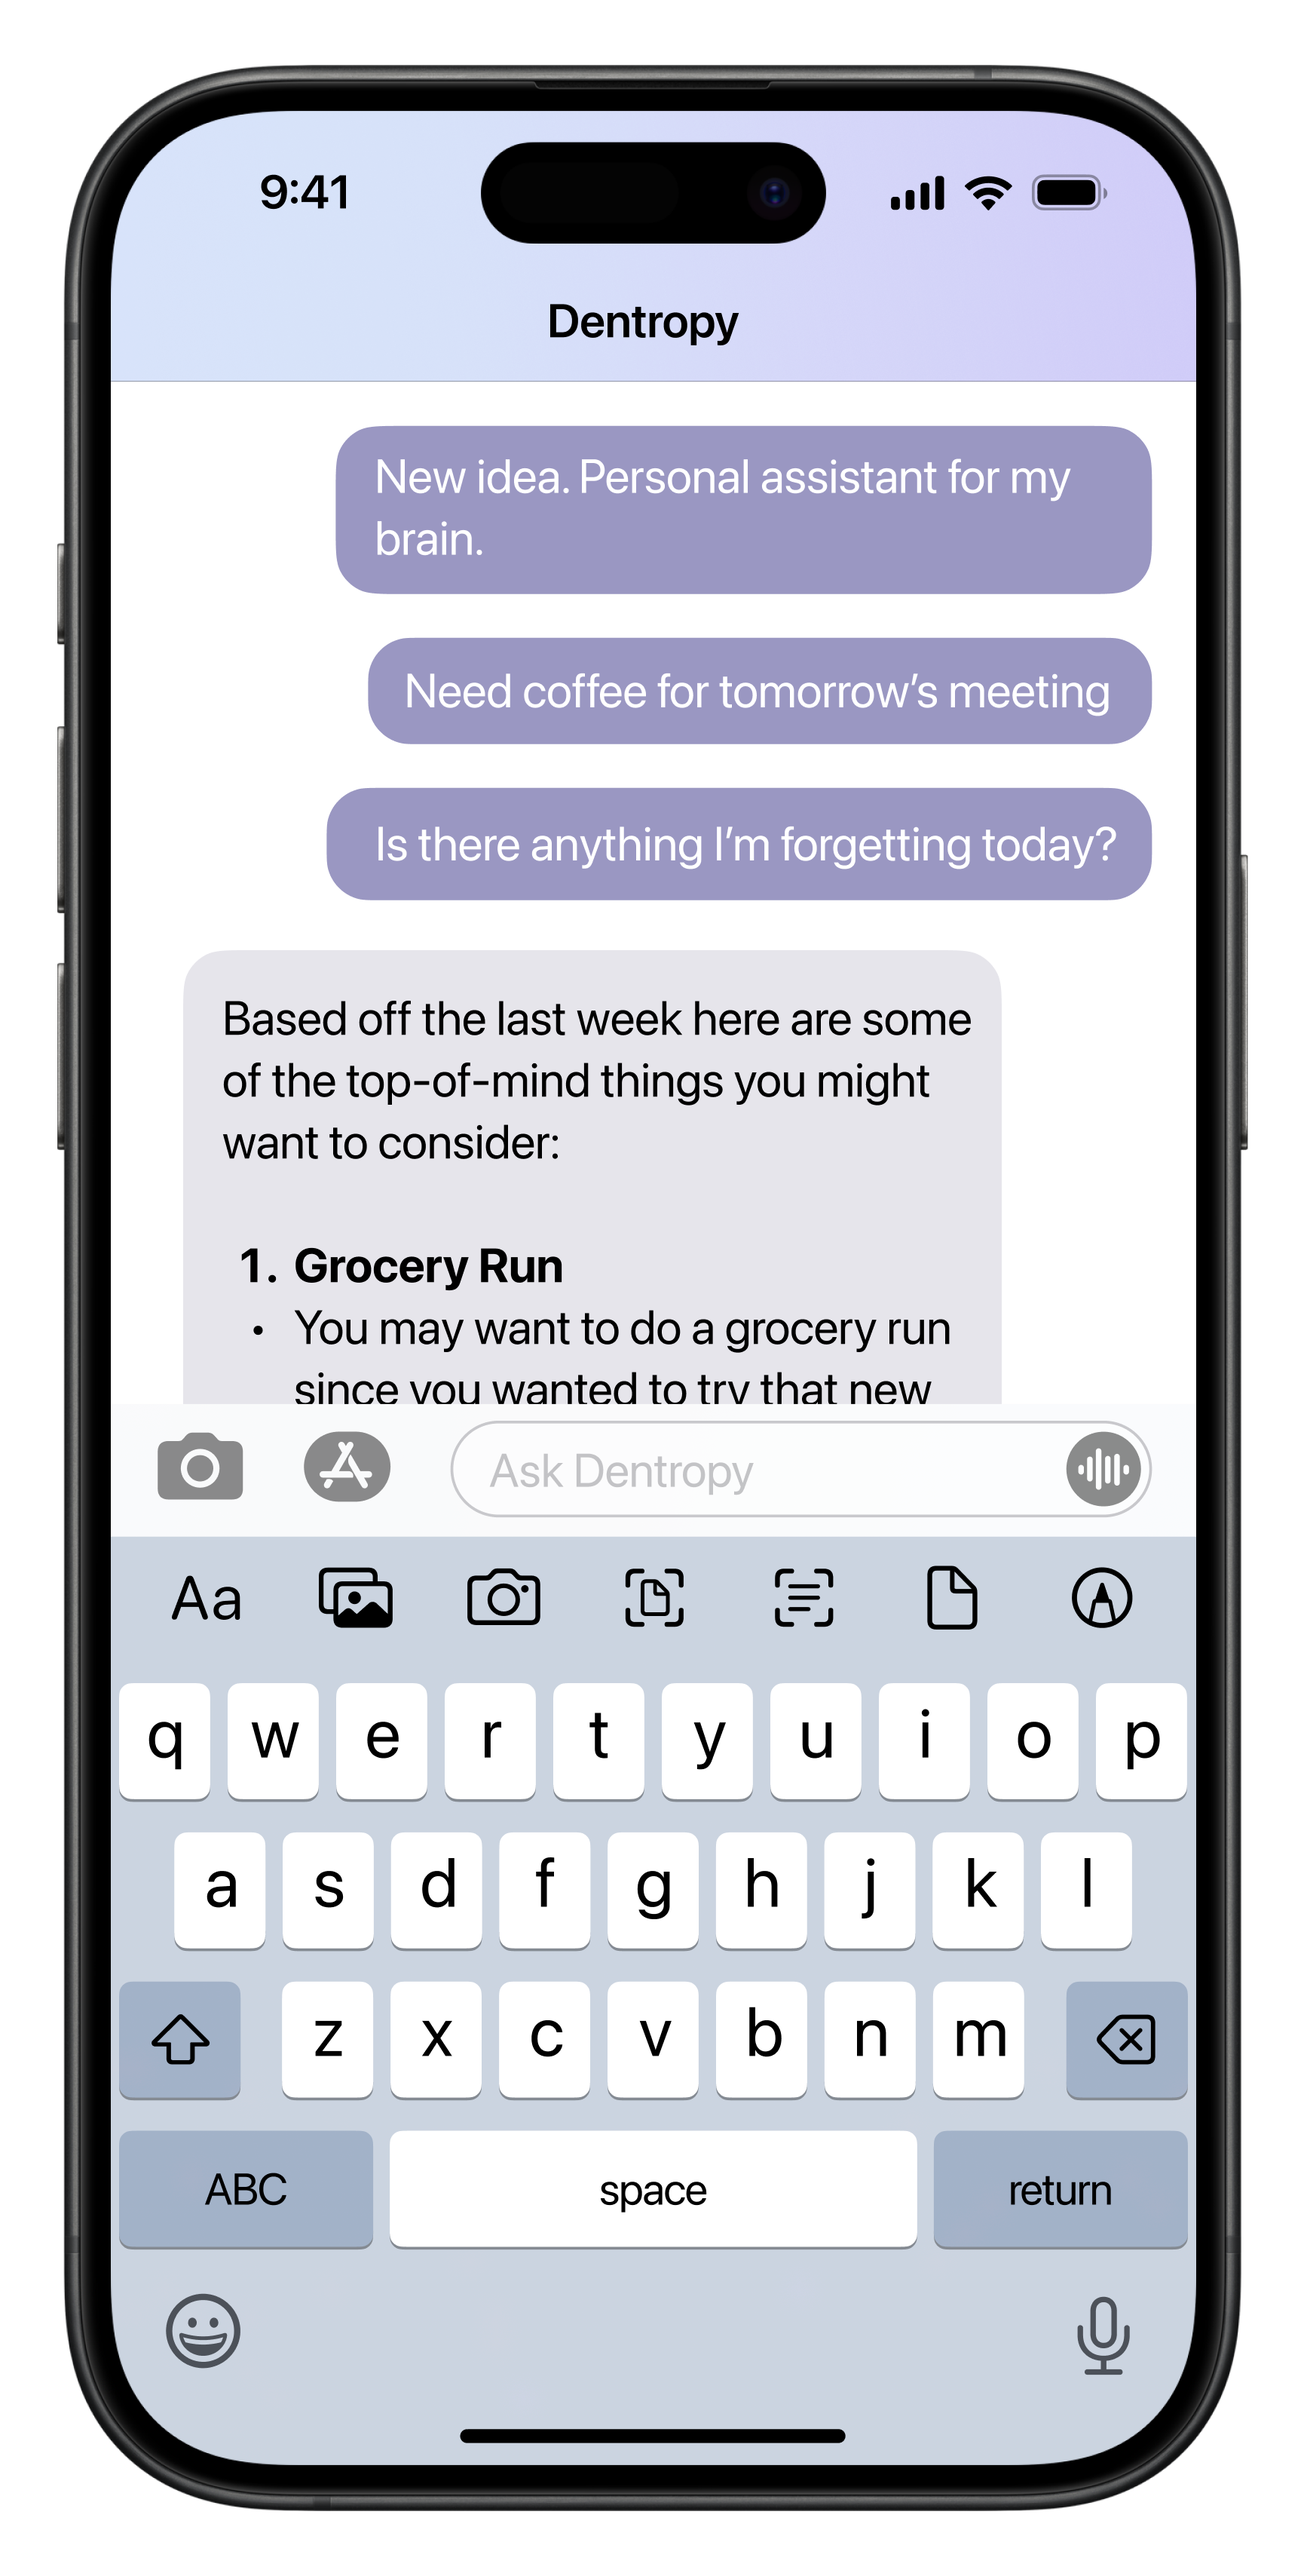
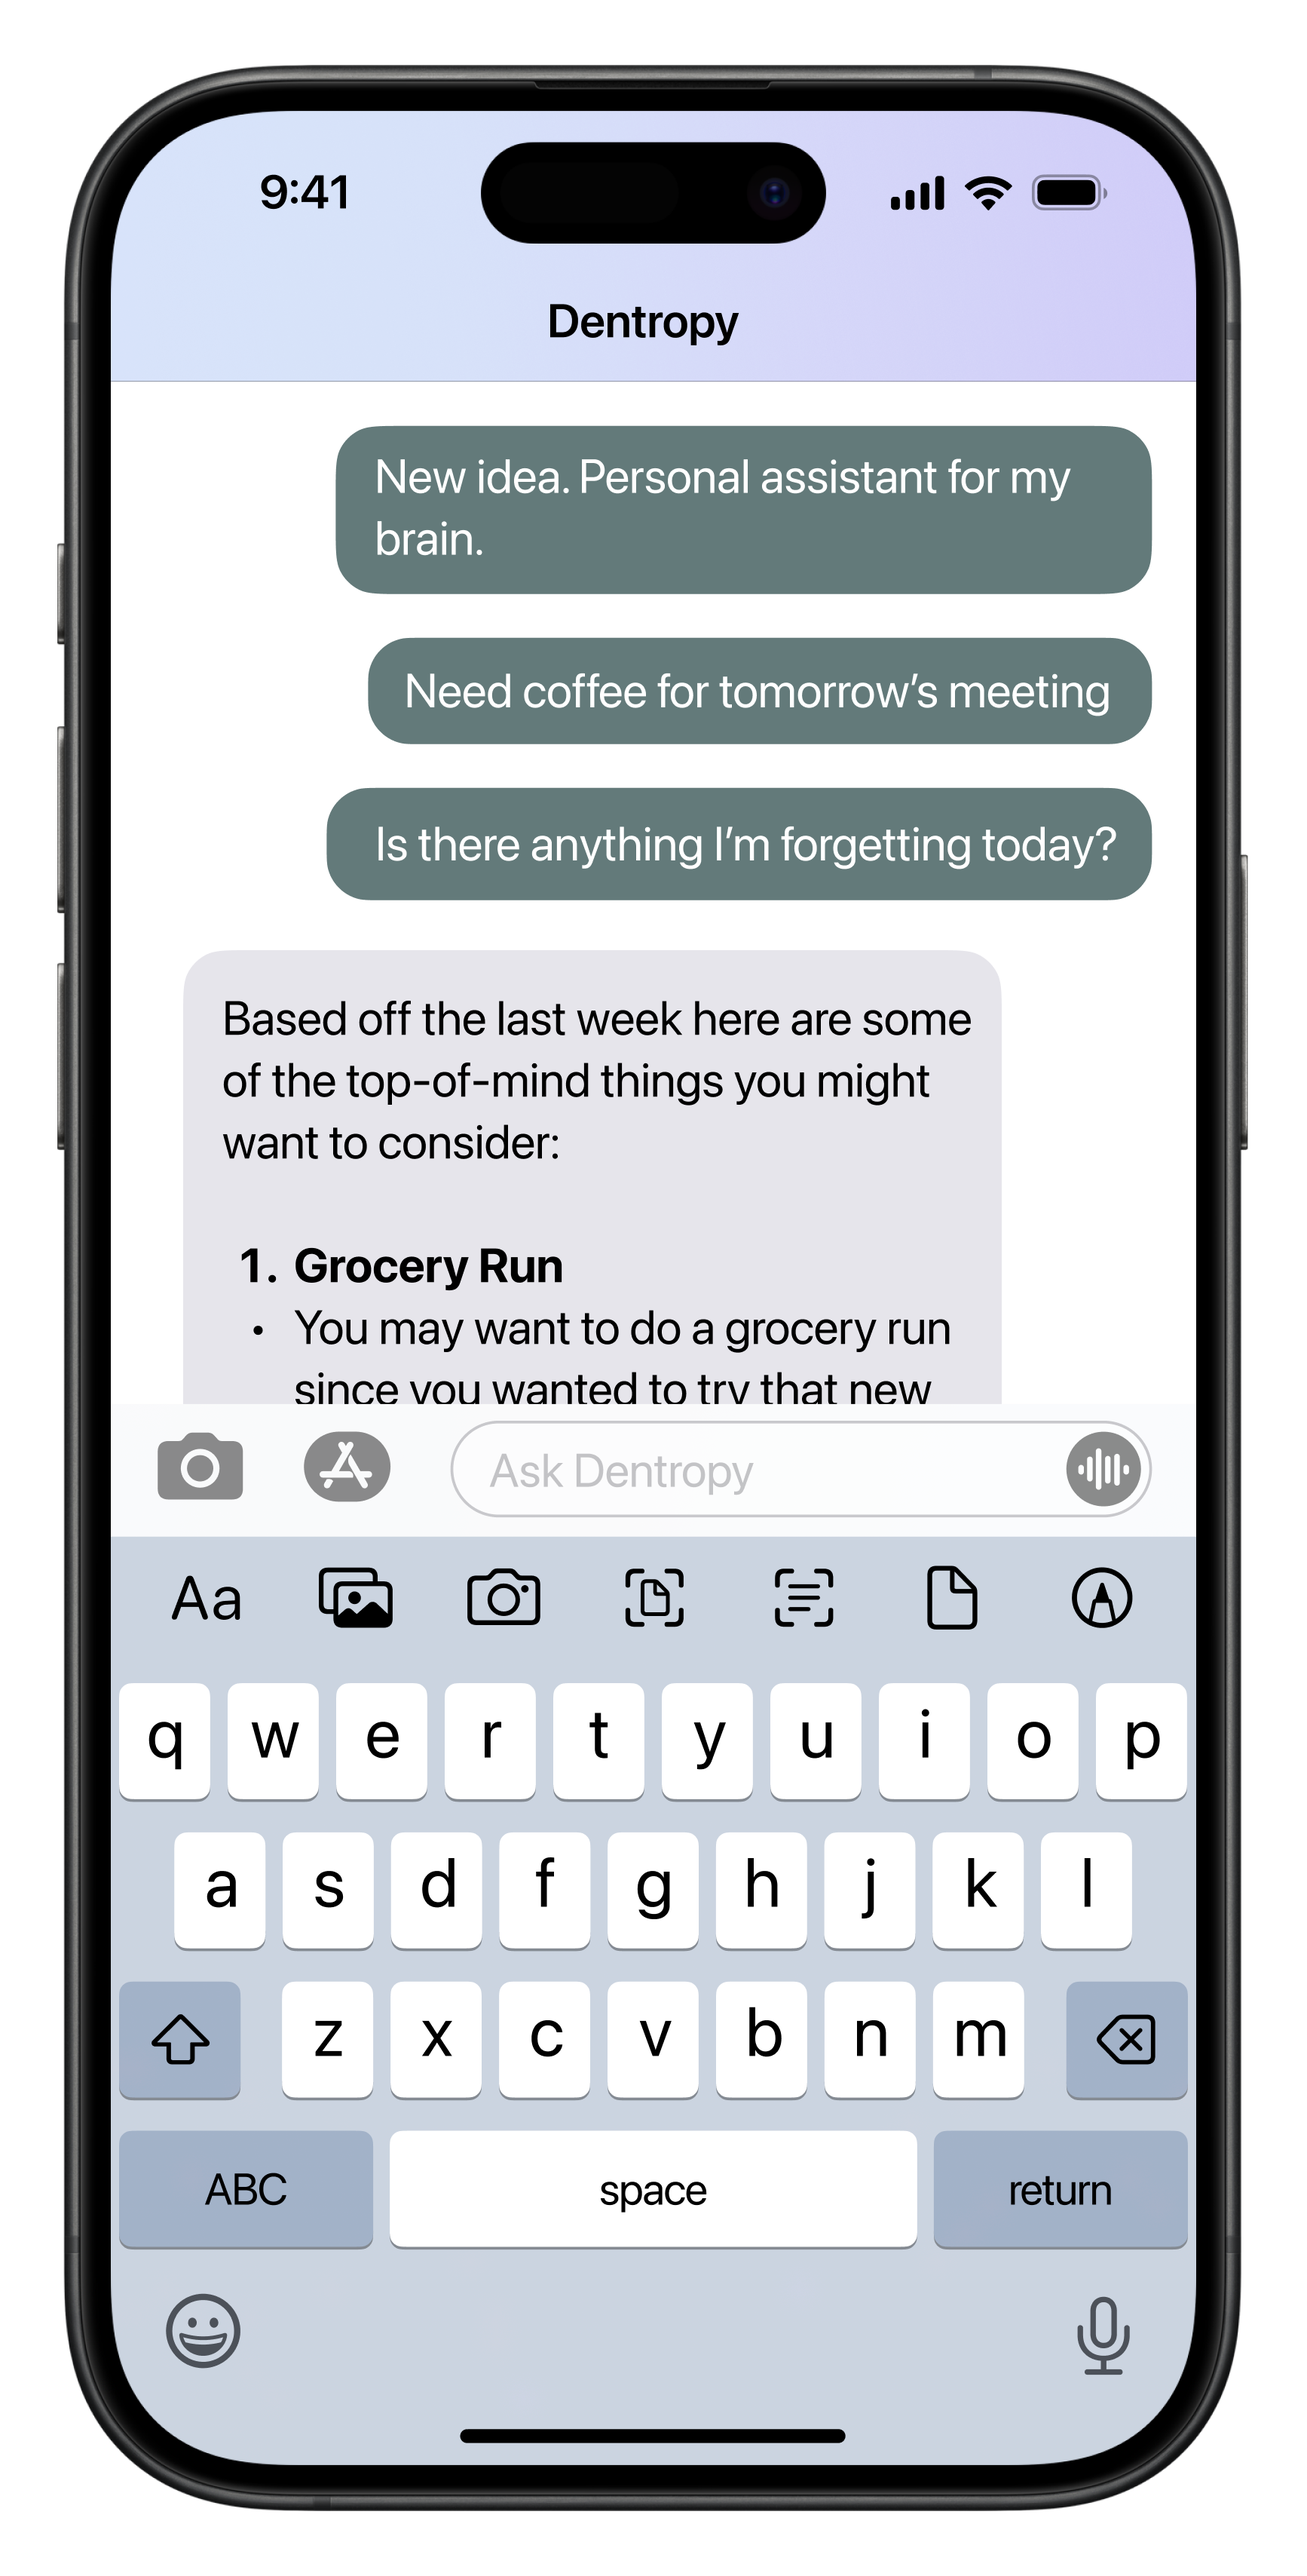
Need to revise colors

Changed region(s): [[0.2491, 0.1552, 0.9031, 0.3724]]

diff --git a/index.html b/index.html
@@ -263,7 +263,7 @@ value_props:
       - "Make lists, as things come to mind (e.g. groceries)"
 
 key_features:
-  enable: true
+  enable: false
   title: "Key Features"
   features:
     - title: "Index your notes in a graph database"
@@ -378,7 +378,7 @@ key_features:
 
   .hero-content .btn,
   .simple-nav-btn {
-    background-color: #746aff;
+    background-color: #637A7A;
     color: #ffffff;
     padding: 0.5rem 1rem;
     border-radius: 4px;
@@ -390,14 +390,14 @@ key_features:
 
   .hero-content .btn:hover,
   .simple-nav-btn:hover {
-    background-color: #5d54cc;
+    background-color: #556969;
     /* Slightly darker shade for hover effect */
     color: #ffffff;
     text-decoration: none;
   }
 
   .simple-nav-btn {
-    background-color: #746aff;
+    background-color: #637A7A;
     color: #ffffff;
     padding: 0.5rem 1rem;
     border-radius: 4px;
@@ -695,7 +695,7 @@ key_features:
 
   #waitlist-signup .simple-nav-btn {
     display: inline-block;
-    background-color: #746aff;
+    background-color: #637A7A;
     color: #ffffff;
     padding: 0.5rem 1.5rem;
     border-radius: 4px;
@@ -706,7 +706,7 @@ key_features:
   }
 
   #waitlist-signup .simple-nav-btn:hover {
-    background-color: #5d54cc;
+    background-color: #556969;
     /* Slightly darker shade for hover effect */
     color: #ffffff;
     text-decoration: none;
@@ -741,7 +741,7 @@ key_features:
   .bubble-bg {
     width: 100px;
     height: 30px;
-    background: rgba(116, 106, 255, 0.15);
+    background: rgba(99, 122, 122, 0.15);
     /* Changed to match button color */
     opacity: 0.4;
   }
@@ -750,7 +750,7 @@ key_features:
     font-size: 0.9rem;
     color: #ffffff;
     max-width: 300px;
-    background: rgba(116, 106, 255, 0.3);
+    background: rgba(99, 122, 122, 0.3);
     /* Changed to match button color with higher opacity */
   }
 
@@ -1191,10 +1191,11 @@ key_features:
 
   .value-prop-card:hover {
     transform: translateY(-5px);
+    box-shadow: 0 5px 15px rgba(99, 122, 122, 0.2);
   }
 
   .value-prop-icon {
-    color: #746aff;
+    color: #637A7A;
     text-align: left;
   }
 
@@ -1265,7 +1266,7 @@ key_features:
   }
 
   .step-number {
-    background: #746aff;
+    background: #637A7A;
     color: white;
     width: 40px;
     height: 40px;
@@ -1323,6 +1324,37 @@ key_features:
     .screenshot-container img {
       max-width: 100%;
     }
+  }
+
+  /* Update all button styles to use the new color */
+  .hero-content .btn,
+  .simple-nav-btn {
+    background-color: #637A7A;
+    color: #ffffff;
+    padding: 0.5rem 1rem;
+    border-radius: 4px;
+    text-decoration: none;
+    font-size: 1rem;
+    font-weight: 500;
+    transition: background-color 0.3s ease;
+  }
+
+  .hero-content .btn:hover,
+  .simple-nav-btn:hover {
+    background-color: #556969; /* Slightly darker shade for hover */
+    color: #ffffff;
+    text-decoration: none;
+  }
+
+  /* Additional button styles */
+  .btn-default,
+  .btn.btn-default {
+    background-color: #637A7A;
+  }
+
+  .btn-default:hover,
+  .btn.btn-default:hover {
+    background-color: #556969;
   }
 </style>
 

diff --git a/_includes/simple_nav.html b/_includes/simple_nav.html
@@ -49,7 +49,6 @@
     margin-left: 1.5rem !important;
   }
   .simple-nav-btn {
-    background-color: #746aff !important;
     color: #ffffff !important;
     padding: 0.3rem 0.8rem !important;
     border-radius: 4px !important;
@@ -61,7 +60,7 @@
     line-height: 1.5 !important;
   }
   .simple-nav-btn:hover {
-    background-color: #5d54cc !important;
+    background-color: #556969 !important;
     color: #ffffff !important;
     text-decoration: none !important;
   }
